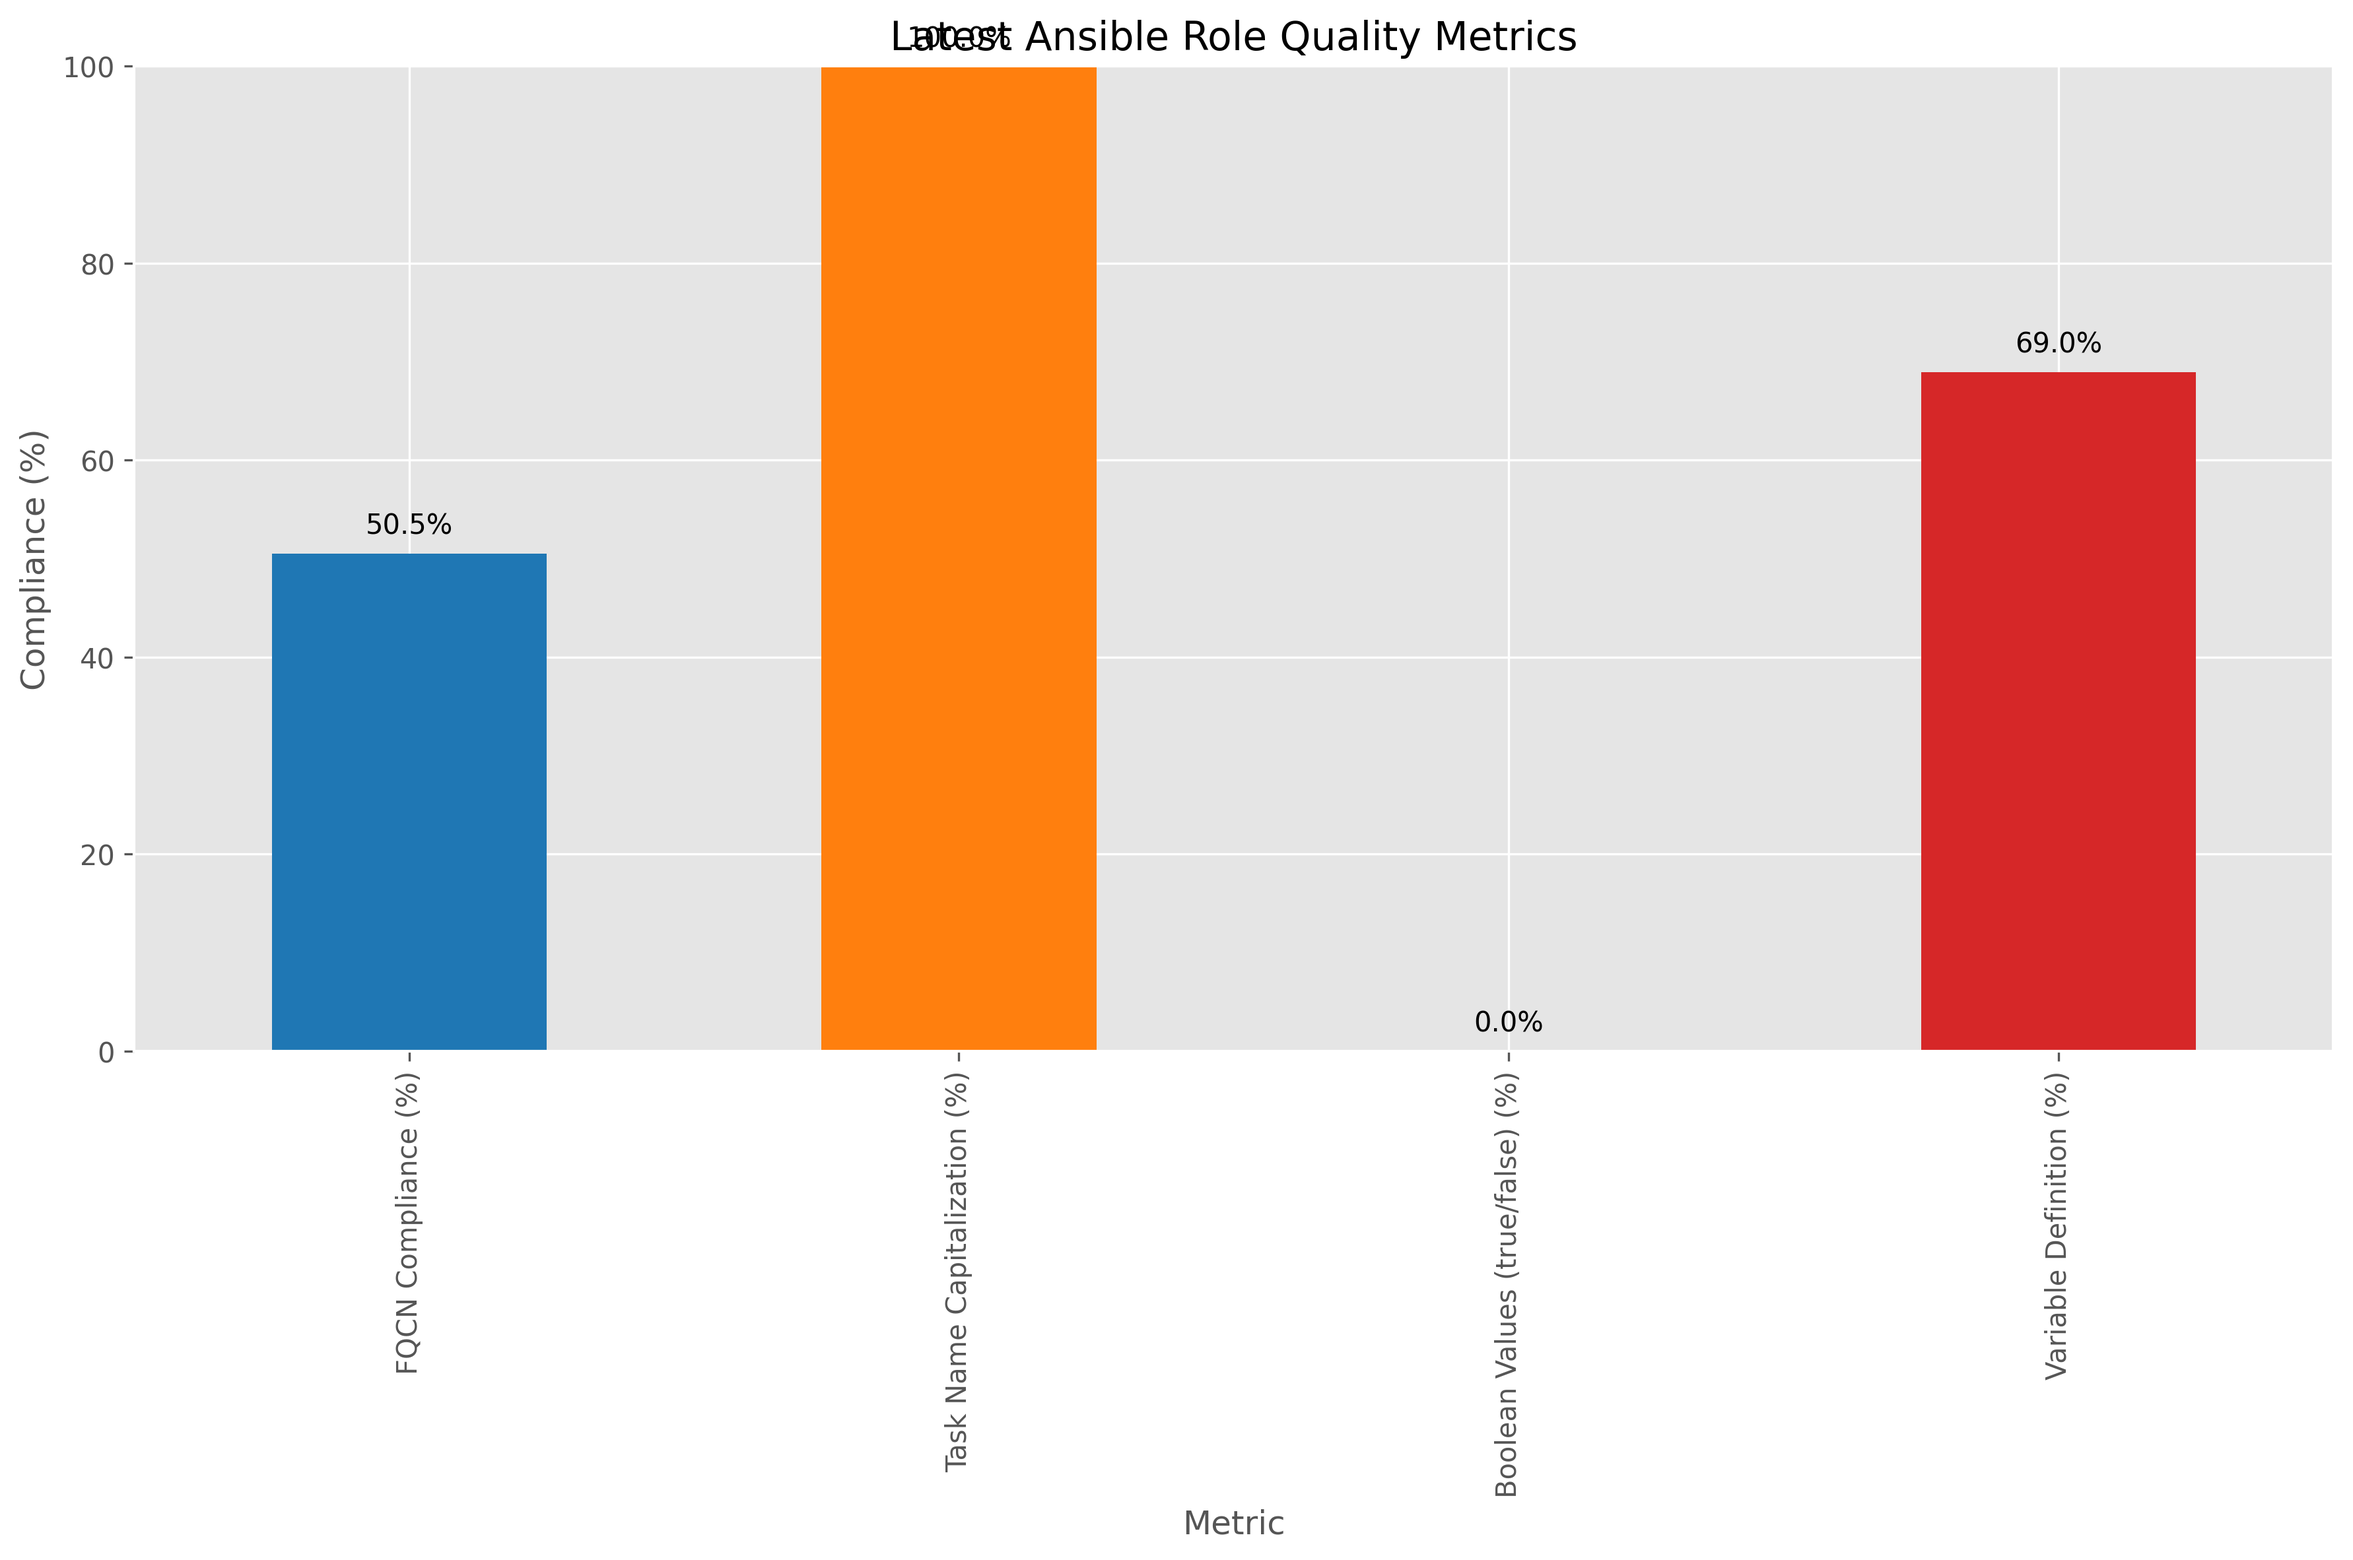
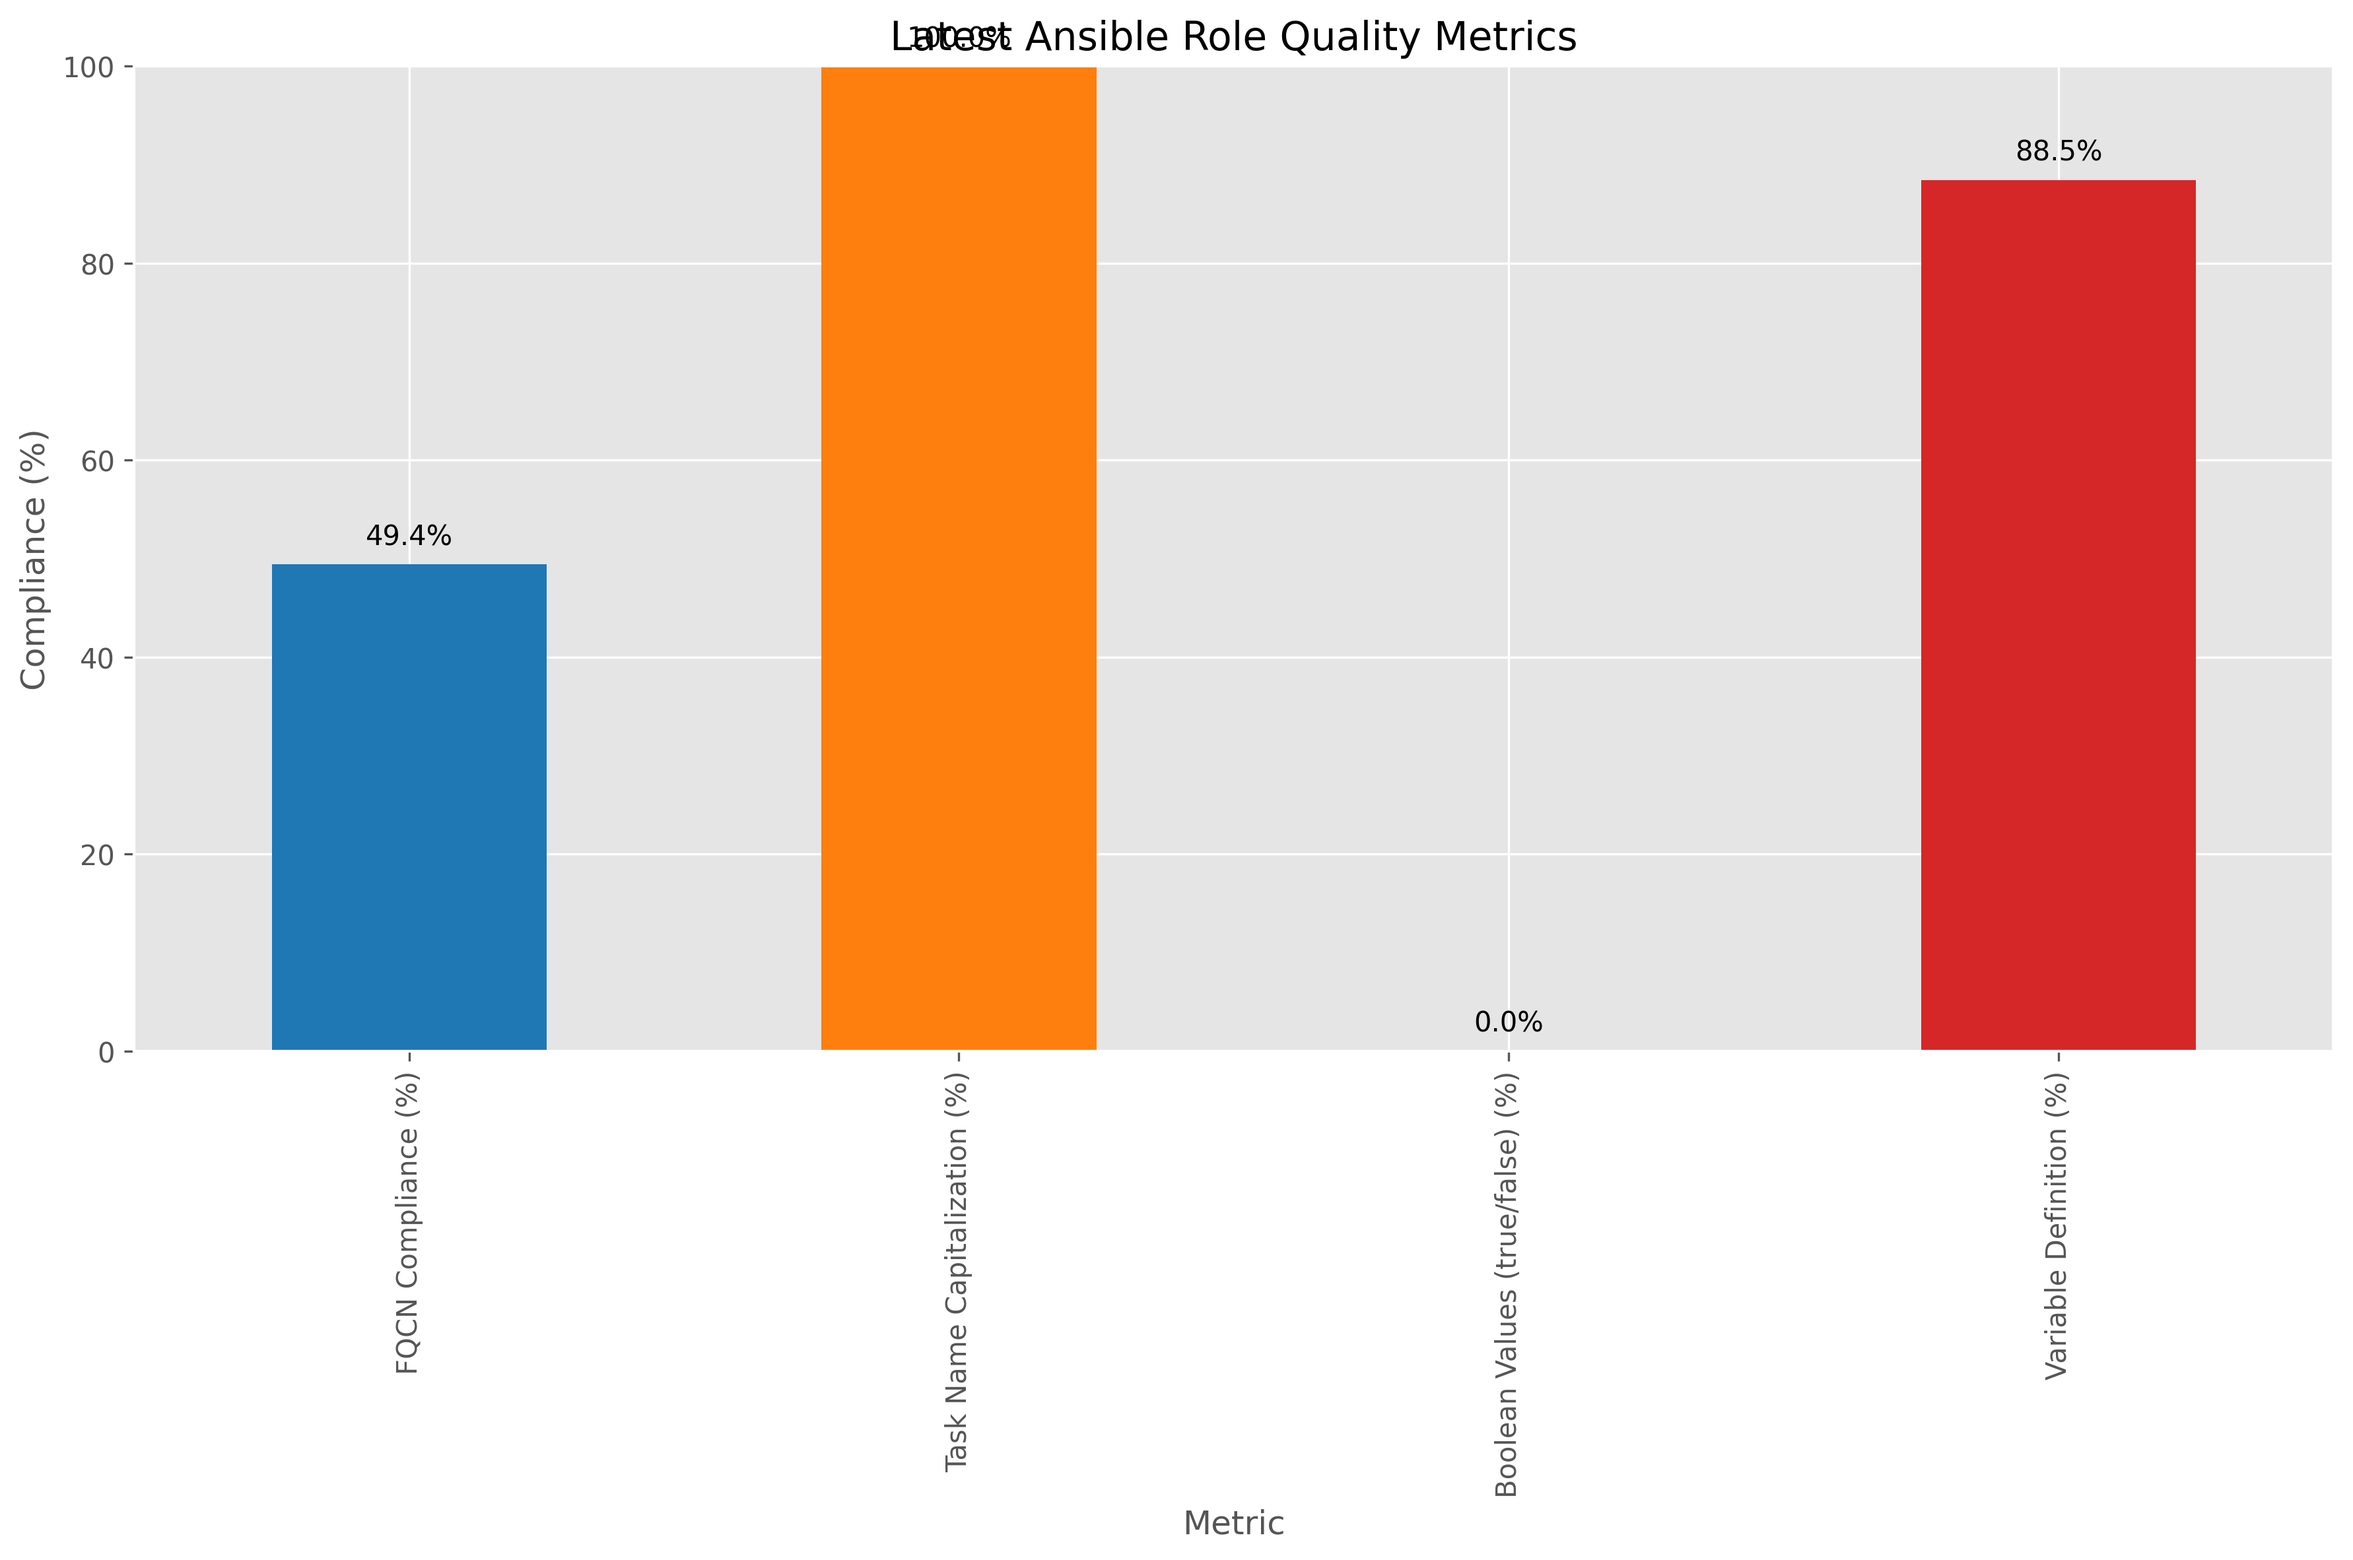
Update metrics (automated) 86381e575e3cb567ae7d61f2b827ec3665fe9a28

Changed region(s): [[0.8098, 0.0926, 0.9343, 0.247], [0.1246, 0.3088, 0.2492, 0.3706]]

diff --git a/metrics/metrics_summary.md b/metrics/metrics_summary.md
@@ -1,15 +1,15 @@
 # Chef to Ansible Conversion Metrics
 
-Last updated: 2025-07-20 00:32:20
+Last updated: 2025-07-27 00:31:23
 
 ## Latest Compliance Metrics
 
 | Metric | Value |
 |--------|-------|
-| FQCN Compliance (%) | 50.54% |
+| FQCN Compliance (%) | 49.41% |
 | Task Name Capitalization (%) | 100.00% |
 | Boolean Values (true/false) (%) | 0.00% |
-| Variable Definition (%) | 68.97% |
+| Variable Definition (%) | 88.46% |
 
 ## Compliance Metrics Over Time
 
